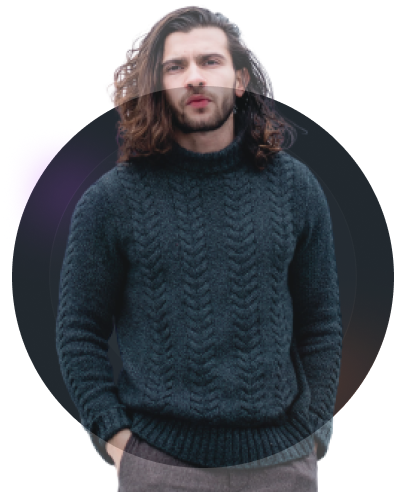
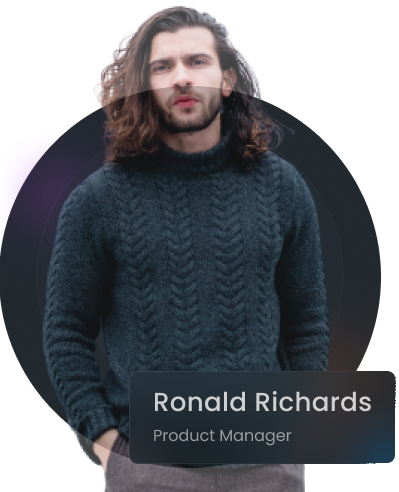
додав мерджини

diff --git a/src/css/style.css b/src/css/style.css
@@ -85,32 +85,43 @@ body {
   color: var(--color-header-text);
 }
 .hero {
-  height: 570px;
-  display: block;
+  padding-top: 46px;
   background-image: url(../img/Illustration.png);
   background-repeat: no-repeat;
   background-position: right;
-  background-size: 580px;
 }
 .hero-title {
   font-size: 50px;
   line-height: 70px;
   color: var(--color-header-logo);
   max-width: 600px;
+  margin-bottom: 30px;
 }
 .hero-point {
   font-size: 50px;
   line-height: 70px;
   color: var(--color-text-add);
 }
+.hero-search {
+  margin-bottom: 110px;
+}
 .hero-subtitle {
   font-weight: 400;
   max-width: 487px;
+  margin-bottom: 60px;
 }
 .hero-image {
   display: flex;
   justify-content: right;
   align-items: center;
+}
+.hero-list {
+  display: flex;
+  gap: 20px;
+}
+.apps {
+  padding-top: 198px;
+  padding-bottom: 212px;
 }
 .apps-container {
   display: flex;
@@ -120,7 +131,7 @@ body {
 .apps-title {
   display: flex;
   justify-content: center;
-
+  margin-bottom: 25px;
   font-size: 48px;
   line-height: 62px;
   color: var(--color-header-logo);
@@ -128,35 +139,35 @@ body {
 .apps-subtitle {
   display: flex;
   justify-content: center;
+  margin-bottom: 90px;
 }
 .apps-list {
   display: flex;
-  gap: 32px;
+  column-gap: 24px;
+  row-gap: 100px;
   flex-direction: row;
   justify-content: center;
   align-items: center;
   flex-wrap: wrap;
-  max-width: 1231px;
+  margin-bottom: 100px;
 }
 .apps-item {
   display: flex;
   align-items: center;
   justify-content: center;
-  height: 392px;
-  width: 294px;
+  flex-basis: calc((100% - 48px) / 3);
 }
 .apps-item:hover {
   display: flex;
   align-items: center;
   justify-content: center;
-  height: 392px;
-  width: 294px;
   background: radial-gradient(
     circle at top right,
-    rgba(255, 102, 0, 0.4),
-    transparent 60%
+    rgba(255, 102, 0, 0.2),
+    transparent 40%
   );
 }
+
 .apps-name {
   font-size: 24px;
   color: var(--color-product-name);
@@ -166,7 +177,6 @@ body {
   color: var(--color-type-apps);
 }
 .apps-description {
-  max-width: 326px;
   font-weight: 400;
   font-size: 16px;
   color: var(--color-header-nav);
@@ -176,33 +186,34 @@ body {
   display: flex;
   justify-content: center;
   align-items: center;
-  width: 184px;
-  height: 64px;
   font-size: 20px;
   color: var(--color-text-add);
   background-color: var(--color-background-antools);
   border: 1px solid rgba(255, 255, 255, 0.1);
   border-radius: 8px;
+  padding-left: 38px;
+  padding-top: 17px;
+  padding-bottom: 17px;
+  padding-right: 38px;
 }
 .brands {
-  display: flex;
-  justify-content: center;
-  align-items: center;
-  height: 253px;
-  width: 1224px;
-  border-radius: 25px;
-  backdrop-filter: blur(50px);
-  background: var(--color-brands-section);
+  padding-bottom: 188px;
 }
 .brands-container {
-  display: flex;
-  justify-content: center;
-  align-items: center;
+  padding-top: 55px;
+  padding-bottom: 55px;
+  background: var(--color-brands-section);
+  border-radius: 25px;
+  backdrop-filter: blur(50px);
+  background: radial-gradient(
+    circle at top left,
+    rgba(255, 69, 0, 0.15),
+    rgba(44, 53, 61, 0.2) 15%
+  );
 }
 .brands-title {
-  display: flex;
-  justify-content: center;
-  align-items: center;
+  text-align: center;
+  margin-bottom: 55px;
   font-size: 24px;
   color: var(--color-header-logo);
 }
@@ -214,58 +225,46 @@ body {
   gap: 170px;
 }
 .newcomer-tools {
-  display: flex;
-  max-width: 1224px;
+  padding-bottom: 200px;
 }
 .newcomer-tools-container {
   display: flex;
-  flex-direction: column;
+  justify-content: space-between;
+}
+.newcomer-tools-body {
+  max-width: 427px;
 }
 .newcomer-tools-title {
-  display: flex;
-  justify-content: left;
   font-size: 48px;
   line-height: 62px;
   color: var(--color-header-logo);
+  margin-bottom: 30px;
 }
-.newcomer-tools-subtitle {
-  display: flex;
-  justify-content: left;
+.newcomer-tools-description {
+  margin-bottom: 60px;
 }
 .newcomer-tools-button {
-  border-radius: 8px;
   width: 198px;
   height: 58px;
+  border-radius: 8px;
   color: var(--color-header-text);
   background-color: var(--color-text-add);
 }
 .newcomer-tools-list {
   display: flex;
-  gap: 32px;
-  flex-direction: row;
-  justify-content: right;
-  align-items: center;
+  column-gap: 24px;
+  row-gap: 50px;
   flex-wrap: wrap;
   max-width: 600px;
-  max-height: 638px;
 }
 .newcomer-tools-item {
-  display: flex;
-  align-items: center;
-  justify-content: right;
-  height: 392px;
-  width: 294px;
+  flex-basis: calc((100% - 24px) / 2);
 }
 .newcomer-tools-item:hover {
-  display: flex;
-  align-items: center;
-  justify-content: right;
-  height: 392px;
-  width: 294px;
   background: radial-gradient(
     circle at top right,
-    rgba(255, 102, 0, 0.4),
-    transparent 60%
+    rgba(255, 102, 0, 0.2),
+    transparent 40%
   );
 }
 .newcomer-tools-name {
@@ -280,20 +279,37 @@ body {
   font-weight: 400;
   font-size: 14px;
 }
-.mentors-name {
-  font-size: 26px;
-  letter-spacing: 0.01em;
-  color: var(--color-product-name);
+.mentors-container {
+  display: flex;
+  justify-content: center;
 }
-.mentors-role {
-  font-weight: 400;
-  font-size: 16px;
+.mentors-body {
+  max-width: 399px;
+}
+.mentors-discription {
+  max-width: 393px;
+}
+.subscribe {
+  padding-top: 250px;
+  padding-bottom: 240px;
+}
+.subscribe-container {
+  display: flex;
+  align-items: center;
+  justify-content: center;
+  flex-direction: column;
 }
 .subscribe-title {
   font-size: 48px;
   line-height: 62px;
   color: var(--color-header-logo);
+  text-align: center;
+  margin-bottom: 25px;
 }
+.subscribe-subtitle {
+  margin-bottom: 100px;
+}
+
 .subscribe-button {
   width: 130px;
   height: 48px;
@@ -302,6 +318,18 @@ body {
   color: var(--color-header-text);
   background-color: var(--color-text-add);
   border-radius: 8px;
+}
+.footer {
+  padding-bottom: 98px;
+  padding-top: 70px;
+  border: 0.5px solid rgba(255, 255, 255, 0.15);
+}
+.footer-container {
+  display: flex;
+  justify-content: space-between;
+}
+.footer-list {
+  gap: 115px;
 }
 .footer-logo {
   font-weight: 600;
@@ -316,6 +344,7 @@ body {
   font-weight: 400;
   font-size: 14px;
   line-height: 25px;
+  max-width: 260px;
 }
 .footer-list-title {
   font-size: 20px;

diff --git a/index.html b/index.html
@@ -54,7 +54,7 @@
             Antool is a web collection of information on paid or free Design and
             Development tools
           </p>
-          <form>
+          <form class="hero-search">
             <input type="find more than 430+ tools..." /><button>Search</button>
           </form>
 
@@ -207,12 +207,15 @@
       </section>
       <section class="newcomer-tools">
         <div class="container newcomer-tools-container">
-          <h3 class="newcomer-tools-title">Newcomer Tools</h3>
-          <p class="newcomer-tools-description">
-            Wow! see the latest update of the most recommended tools from
-            reliable designers and developers
-          </p>
-          <button class="newcomer-tools-button">Explore more</button>
+          <div class="newcomer-tools-body">
+            <h3 class="newcomer-tools-title">Newcomer Tools</h3>
+            <p class="newcomer-tools-description">
+              Wow! see the latest update of the most recommended tools from
+              reliable designers and developers
+            </p>
+            <button class="newcomer-tools-button">Explore more</button>
+          </div>
+
           <ul class="newcomer-tools-list">
             <li class="newcomer-tools-item">
               <article class="newcomer-tools-atricle">
@@ -287,18 +290,17 @@
       </section>
 
       <section class="mentors">
-        <div class="container">
-          <article class="mentors-article">
-            <div class="mentors-container">
-              <img
-                class="mentors-image"
-                src="./src/img/Group 1434.png"
-                alt=""
-              />
-            </div>
-
-            <h5 class="mentors-name">Ronald Richards</h5>
-            <p class="mentors-role">Product Manager</p>
+        <div class="container mentors-container">
+      <div class="mentors-body">
+        <article class="mentors-article">
+          <div class="mentors-container">
+            <img
+              class="mentors-image"
+              src="./src/img/Group 1434.png"
+              alt=""
+            />
+          </div>
+      </div>
             <h6 class="mentors-discription">
               Incididunt cillum do sint sint enim ullamco id deserunt mollit qui
               reprehenderit do. Velit ex tempor cillum ad sint occaecat. Do
@@ -311,22 +313,24 @@
         </div>
       </section>
       <section class="subscribe">
-        <div class="container">
+        <div class="container subscribe-container">
           <h2 class="subscribe-title">Become a contributor?</h2>
           <h3 class="subscribe-subtitle">
             Join us and get tips & tricks to become a great Designer and
             Developer
           </h3>
-          <input type="text" />
+          <form class="subscribe-button-input">
+            <input type="" /><button class="subscribe-button">Join Us</button>
+          </form>
           <button class="subscribe-button">Join Us</button>
         </div>
       </section>
     </main>
     <footer class="footer">
-      <div class="container">
+      <div class="container footer-container">
         <ul class="footer-list">
           <li class="footer-item">
-            <a class="footer" href="/index.html">antools.</a>
+            <a class="footer-logo" href="/index.html">antools.</a>
           </li>
           <li class="footer-copyright">Copyright 2021. Antools</li>
           <p class="footer-description">
